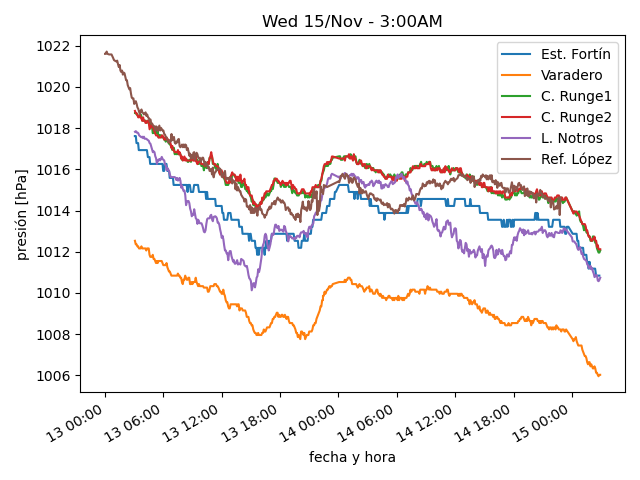
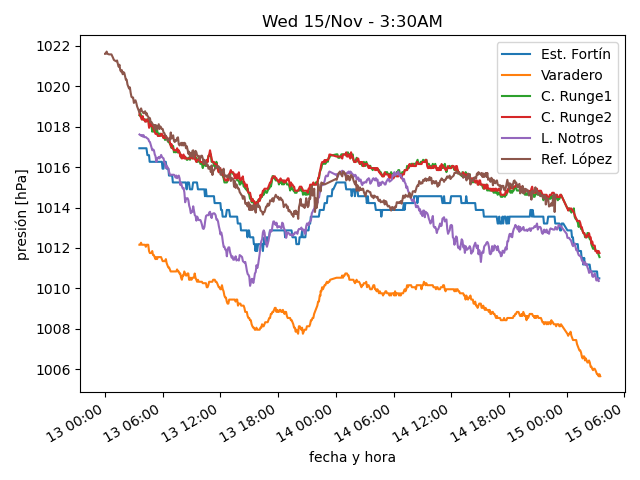
actualiza datos

diff --git a/estaciones/estacion1.html b/estaciones/estacion1.html
@@ -18,32 +18,32 @@
     </tr>
     <tr>
      <td class="stats_data">
-      2:49AM
+      3:23AM
      </td>
     </tr>
     <tr>
      <td class="stats_data">
-      3.3⁰C
+      3.2⁰C
      </td>
     </tr>
     <tr>
      <td class="stats_data">
-      -2.9⁰C
+      -2.5⁰C
      </td>
     </tr>
     <tr>
      <td class="stats_data">
-      64.0%
+      66.0%
      </td>
     </tr>
     <tr>
      <td class="stats_data">
-      1010.84hPa
+      1010.5hPa
      </td>
     </tr>
     <tr>
      <td class="stats_data">
-      15.0/22.5 km/hr WSW
+      20.9/37.8 km/hr WNW
      </td>
     </tr>
     <tr>

diff --git a/estaciones/estacion2.html b/estaciones/estacion2.html
@@ -18,32 +18,32 @@
     </tr>
     <tr>
      <td class="stats_data">
-      2:54AM
+      3:29AM
      </td>
     </tr>
     <tr>
      <td class="stats_data">
-      5.2⁰C
+      4.9⁰C
      </td>
     </tr>
     <tr>
      <td class="stats_data">
-      1.4⁰C
+      1.6⁰C
      </td>
     </tr>
     <tr>
      <td class="stats_data">
-      76.6%
+      79.3%
      </td>
     </tr>
     <tr>
      <td class="stats_data">
-      1015.51hPa
+      1015.14hPa
      </td>
     </tr>
     <tr>
      <td class="stats_data">
-      41.8/49.4 km/hr NW
+      43.0/49.7 km/hr NW
      </td>
     </tr>
     <tr>

diff --git a/estaciones/estacion4.html b/estaciones/estacion4.html
@@ -18,32 +18,32 @@
     </tr>
     <tr>
      <td class="stats_data">
-      2:54AM
+      3:24AM
      </td>
     </tr>
     <tr>
      <td class="stats_data">
-      3.0⁰C
+      2.9⁰C
      </td>
     </tr>
     <tr>
      <td class="stats_data">
-      -1.6⁰C
+      -1.2⁰C
      </td>
     </tr>
     <tr>
      <td class="stats_data">
-      72.2%
+      74.6%
      </td>
     </tr>
     <tr>
      <td class="stats_data">
-      1009.11hPa
+      1008.74hPa
      </td>
     </tr>
     <tr>
      <td class="stats_data">
-      5.1/7.9 km/hr SW
+      6.0/10.5 km/hr SSW
      </td>
     </tr>
     <tr>

diff --git a/estaciones/estacion3.html b/estaciones/estacion3.html
@@ -18,7 +18,7 @@
     </tr>
     <tr>
      <td class="stats_data">
-      2:54AM
+      3:24AM
      </td>
     </tr>
     <tr>
@@ -28,22 +28,22 @@
     </tr>
     <tr>
      <td class="stats_data">
-      -0.7⁰C
+      -0.3⁰C
      </td>
     </tr>
     <tr>
      <td class="stats_data">
-      76.6%
+      78.7%
      </td>
     </tr>
     <tr>
      <td class="stats_data">
-      1000.34hPa
+      999.83hPa
      </td>
     </tr>
     <tr>
      <td class="stats_data">
-      8.6/13.4 km/hr W
+      16.0/23.7 km/hr WNW
      </td>
     </tr>
     <tr>

diff --git a/estaciones/estacion5.html b/estaciones/estacion5.html
@@ -18,12 +18,12 @@
     </tr>
     <tr>
      <td class="stats_data">
-      2:55AM
+      3:20AM
      </td>
     </tr>
     <tr>
      <td class="stats_data">
-      3.3⁰C
+      3.1⁰C
      </td>
     </tr>
     <tr>
@@ -33,12 +33,12 @@
     </tr>
     <tr>
      <td class="stats_data">
-      72.0%
+      74.0%
      </td>
     </tr>
     <tr>
      <td class="stats_data">
-      1013.31hPa
+      1012.94hPa
      </td>
     </tr>
     <tr>
